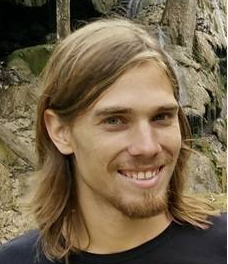
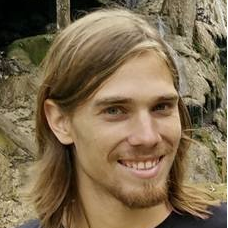
crop organizer+speaker pics to quadratic shape

diff --git a/docs/source/index.rst b/docs/source/index.rst
@@ -107,22 +107,22 @@ Organizers
 .. image:: organizer_speaker_pics/julian_bitterwolf.png
     :width: 150px
 - `Evgenia Rusak <https://scholar.google.com/citations?user=XKc19kkAAAAJ&hl=en&oi=ao>`__
-.. image:: organizer_speaker_pics/evgenia_rusak.jpg
+.. image:: organizer_speaker_pics/evgenia_rusak.png
     :width: 150px
 - `Steffen Schneider <https://stes.io>`__
 .. image:: organizer_speaker_pics/steffen_schneider.jpeg
     :width: 150px
 - `Roland S Zimmermann <https://rzimmermann.com/>`__
-.. image:: organizer_speaker_pics/roland_zimmermann.jpg
+.. image:: organizer_speaker_pics/roland_zimmermann.png
     :width: 150px
 - `Matthias Bethge <http://bethgelab.org/>`__
-.. image:: organizer_speaker_pics/matthias_bethge.jpeg
+.. image:: organizer_speaker_pics/matthias_bethge.png
     :width: 150px
 - `Wieland Brendel <https://scholar.google.com/citations?user=v-JL-hsAAAAJ&hl=en&oi=ao>`__
 .. image:: organizer_speaker_pics/wieland_brendel.png
     :width: 150px
 - `Matthias Hein <https://uni-tuebingen.de/fakultaeten/mathematisch-naturwissenschaftliche-fakultaet/fachbereiche/informatik/lehrstuehle/maschinelles-lernen/team/prof-dr-matthias-hein/>`__
-.. image:: organizer_speaker_pics/matthias_hein.jpg
+.. image:: organizer_speaker_pics/matthias_hein.png
     :width: 150px
 
 .. |overview.svg| image:: overview.svg
